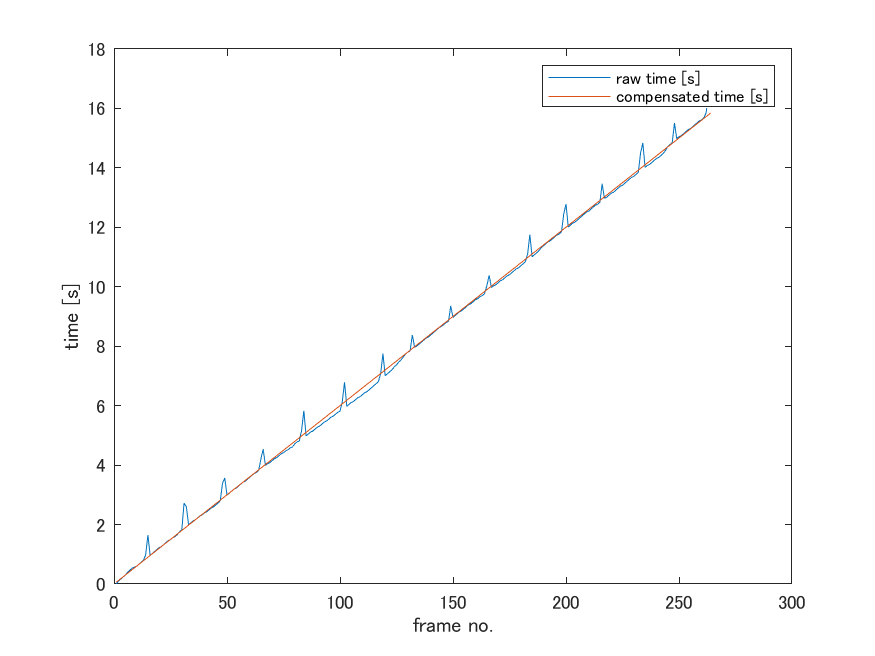
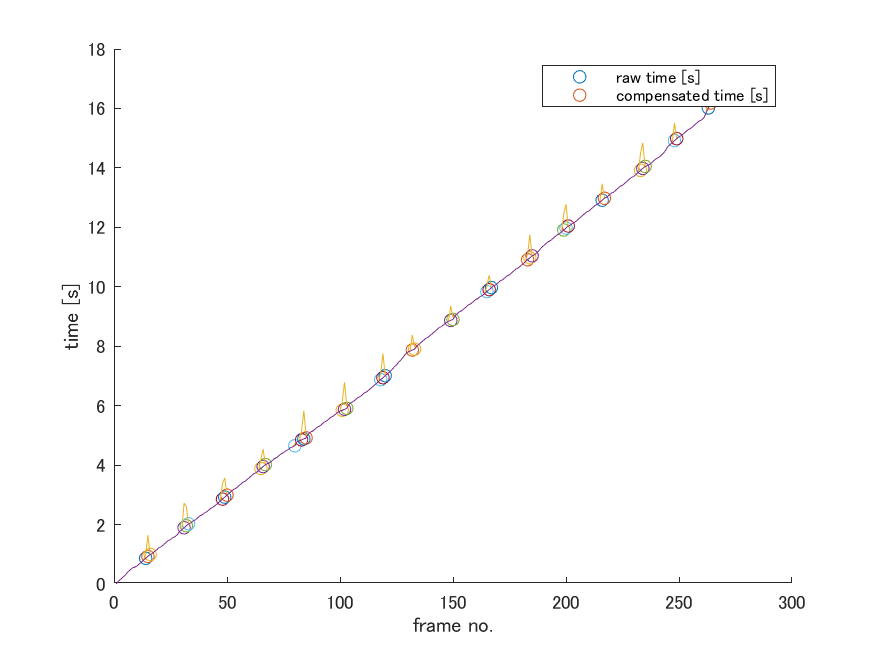
ADD: fixTimeBug

diff --git a/sotsuron_experiment/matlab_ws/fixTimeBug.m b/sotsuron_experiment/matlab_ws/fixTimeBug.m
@@ -1,0 +1,37 @@
+function time_compensated=fixTimeBug(mat_general)
+    % mat_general=load("C:\Users\hayashide\kazu_ws\sotsuron_experiment\sotsuron_experiment\matlab_ws\result.csv");
+    fig=figure();clf;
+    time_series=mat_general(:,end)-mat_general(1,end)
+    time_compensated=zeros(size(time_series))
+    frame_idx=1:length(time_series)
+
+    time_compensated(1)=time_series(1);
+    time_compensated(2)=time_series(2);
+
+    outlier_flg=false;
+    recent_outlier=1;
+
+    for i = 2:length(time_series)-1
+        if time_series(i+1)-time_series(i)>2.5*(time_compensated(i)-time_compensated(i-1)) || time_series(i+1)-time_series(i)<0
+            if ~outlier_flg
+                recent_outlier=frame_idx(i)
+            end
+            outlier_flg=true;
+            time_compensated(i+1)=(time_series(recent_outlier)-time_series(recent_outlier-1))*(frame_idx(i+1)-frame_idx(i))+time_compensated(i);
+            scatter(frame_idx(i+1),time_compensated(i+1));
+        else
+            time_compensated(i+1)=time_series(i+1);
+            hold on
+            outlier_flg=false;
+        end
+    end
+end
+% % time_compensated=smoothdata(time_series)
+% plot(frame_idx,mat_general(:,end)-mat_general(1,end))
+% hold on
+% % plot(frame_idx,straight(1)*frame_idx)
+% plot(frame_idx,time_compensated)
+% xlabel("frame no.")
+% ylabel("time [s]")
+% legend("raw time [s]","compensated time [s]")
+% saveas(fig,"C:\Users\hayashide\kazu_ws\sotsuron_experiment\sotsuron_experiment\matlab_ws\time_noise.png")
